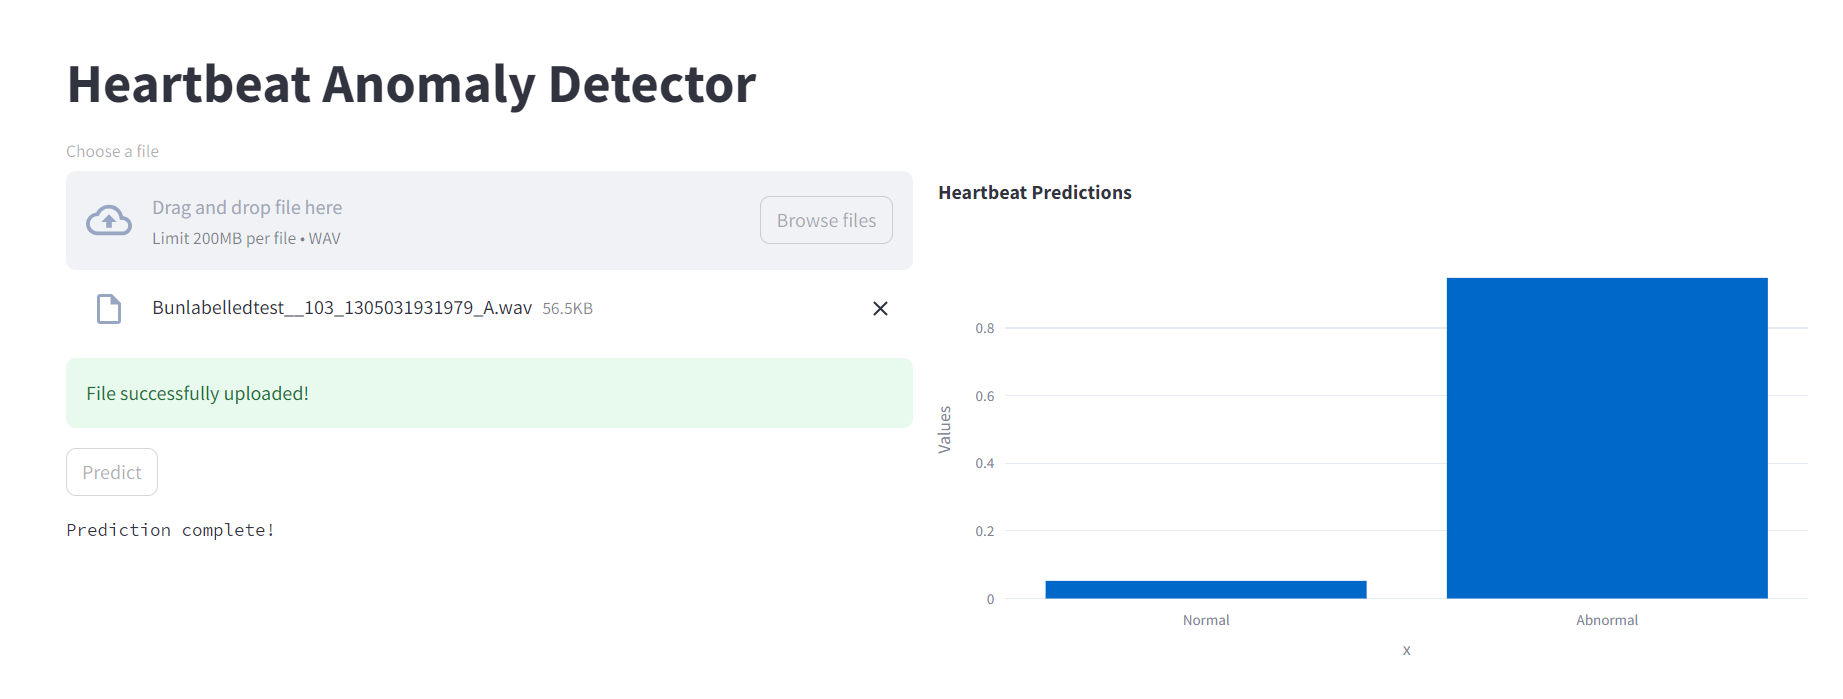
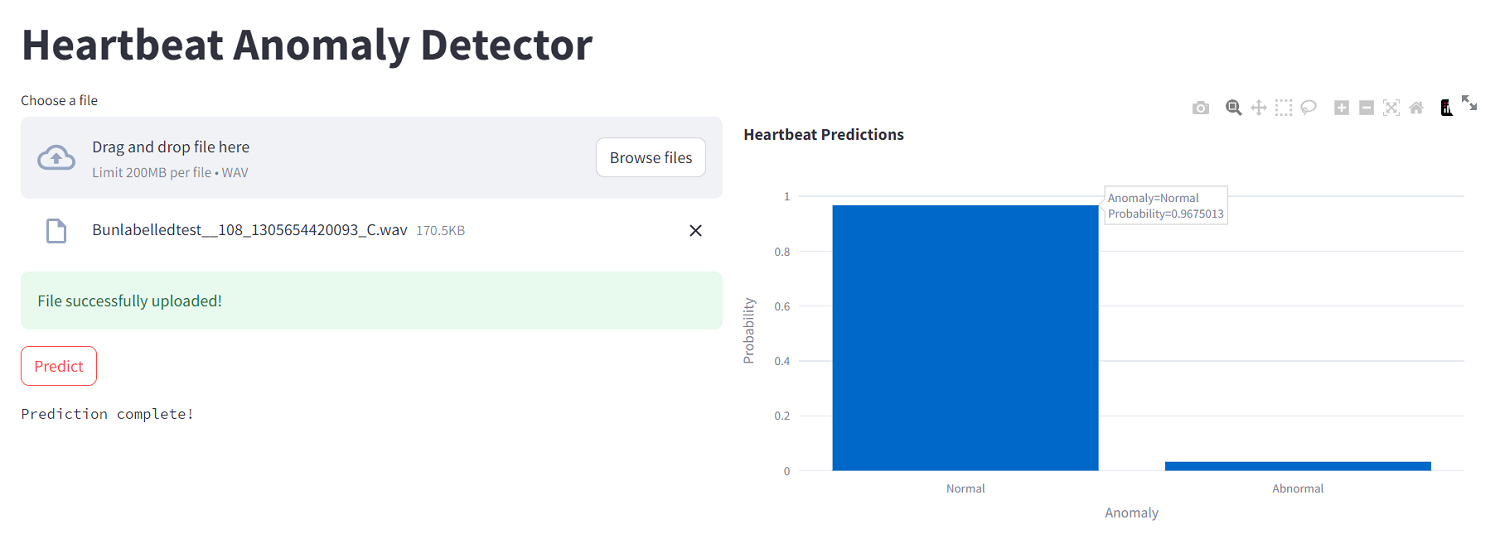
streamlit app upgraded with image demo

diff --git a/frontend_app/streamlit_app.py b/frontend_app/streamlit_app.py
@@ -16,10 +16,8 @@ def process_data(file) -> Tuple:
 def main():
     st.title('Heartbeat Anomaly Detector')
 
-    # Create two columns
     left_column, right_column = st.columns(2)
 
-    # Left column: File upload and predict button
     with left_column:
         uploaded_file = st.file_uploader("Choose a file", type=["wav"])
 
@@ -32,11 +30,12 @@ def main():
 
             st.text('Prediction complete!')
 
-    # Right column: Plots
     with right_column:
         if 'normal_value' in locals() and 'abnormal_value' in locals():
-            fig = px.bar(x=['Normal', 'Abnormal'], y=[normal_value, abnormal_value], labels={'y': 'Values'},
-                         title='Heartbeat Predictions')
+            fig = px.bar(x = ['Normal', 'Abnormal'], 
+                         y = [normal_value, abnormal_value],
+                         labels = {'x': 'Anomaly', 'y': 'Probability'},
+                         title = 'Heartbeat Predictions')
             st.plotly_chart(fig)
 
 if __name__ == '__main__':
